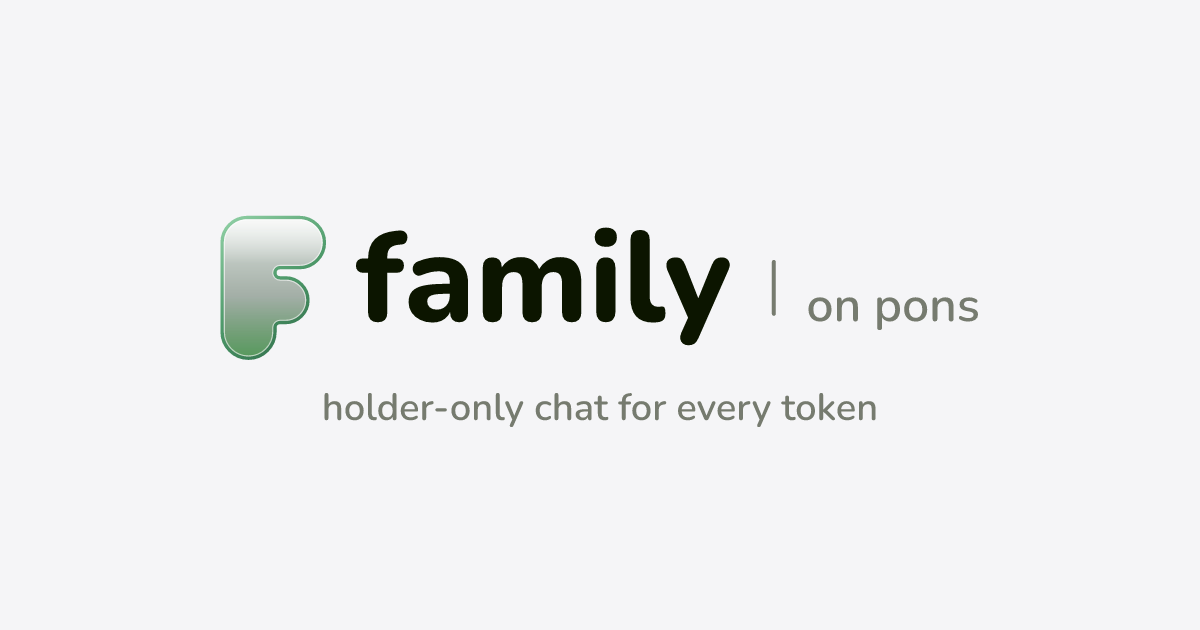
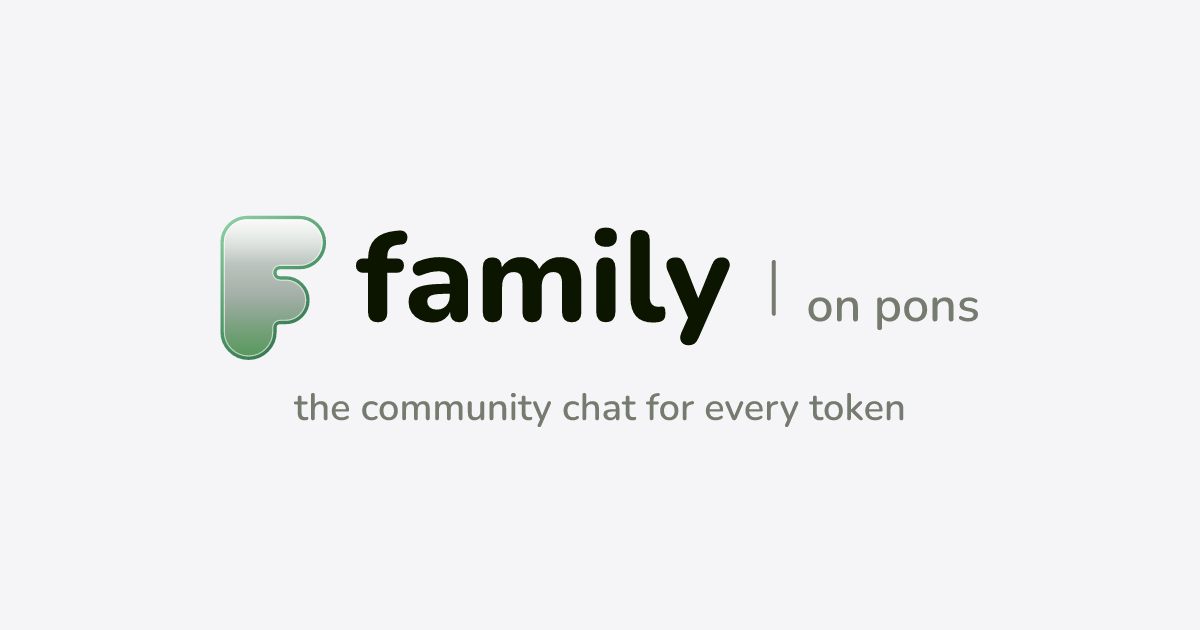
Reframe as a community chat
Lead with community and members instead of token holder chat across the
panel, manifest, landing page, X copy and images, and README. Gating by
holding is unchanged and still stated plainly. Bumps the alpha to 0.1.1
and repacks the download.

Changed region(s): [[0.2467, 0.6333, 0.7708, 0.6937]]

diff --git a/landing/index.html b/landing/index.html
@@ -4,7 +4,7 @@
   <meta charset="utf-8" />
   <meta name="viewport" content="width=device-width, initial-scale=1" />
   <title>family on pons</title>
-  <meta name="description" content="A holder-only chat room on every token page. If you hold the token, you are in the room." />
+  <meta name="description" content="A community chat on every token page. Hold the token to join the conversation." />
   <link rel="icon" type="image/svg+xml" href="assets/favicon.svg" />
   <link rel="icon" type="image/png" sizes="32x32" href="assets/favicon-32.png" />
   <!-- Link previews need absolute URLs. When the custom domain is live, replace every https://joinfamily.lol below. -->
@@ -12,13 +12,13 @@
   <meta property="og:type" content="website" />
   <meta property="og:url" content="https://joinfamily.lol/" />
   <meta property="og:title" content="family on pons" />
-  <meta property="og:description" content="A holder-only chat room on every token page." />
+  <meta property="og:description" content="A community chat on every token page." />
   <meta property="og:image" content="https://joinfamily.lol/assets/og-image.png" />
   <meta property="og:image:width" content="1200" />
   <meta property="og:image:height" content="630" />
   <meta name="twitter:card" content="summary_large_image" />
   <meta name="twitter:title" content="family on pons" />
-  <meta name="twitter:description" content="A holder-only chat room on every token page." />
+  <meta name="twitter:description" content="A community chat on every token page." />
   <meta name="twitter:image" content="https://joinfamily.lol/assets/og-image.png" />
   <meta name="color-scheme" content="light dark" />
   <script>
@@ -214,10 +214,10 @@
       <div class="hero">
         <div>
           <span class="eyebrow"><i></i>Alpha: Chrome extension for ponsfamily</span>
-          <h1>The token page, with a room for its holders.</h1>
-          <p class="lead">family adds a chat to every token page. If you hold the token, you are in the room. If you do not, you see a locked door and how many holders are already inside.</p>
+          <h1>Every token page, with a community chat.</h1>
+          <p class="lead">family adds a community chat to every token page. Hold the token and you are in. If you are not yet, you can see how many members are already talking.</p>
           <div class="cta">
-            <a class="btn primary" href="family-alpha.zip" download><svg viewBox="0 0 24 24" aria-hidden="true"><path d="M12 4v11M7.5 11 12 15.5 16.5 11M5 20h14"/></svg>Download alpha <em>v0.1.0</em></a>
+            <a class="btn primary" href="family-alpha.zip" download><svg viewBox="0 0 24 24" aria-hidden="true"><path d="M12 4v11M7.5 11 12 15.5 16.5 11M5 20h14"/></svg>Download alpha <em>v0.1.1</em></a>
             <a class="btn ghost" href="#install">How to install</a>
           </div>
         </div>
@@ -238,7 +238,7 @@
               <div class="bar">
                 <span class="chip"><b style="background:hsl(330 55% var(--name-l))"></b>MetaMask 0x29cb…7141</span>
                 <span class="badge">0.907% of supply</span>
-                <span class="m" style="font-size:12px">5 inside</span>
+                <span class="m" style="font-size:12px">5 members</span>
               </div>
               <div class="msgs">
                 <div class="msg"><div class="meta"><span class="who" style="color:hsl(150 55% var(--name-l))">0x2b3d…fb5e</span><span>2.1%</span><span class="time">02:37 PM</span></div>gm family, anyone watching the curve?</div>
@@ -255,14 +255,14 @@
 
 
     <section aria-labelledby="why-h">
-      <p class="kicker">Why a gated room</p>
-      <h2 id="why-h">Skin in the game filters most of the noise.</h2>
-      <p class="sub">Questions like whether the dev is still holding get asked in places anyone can shout in. Here, only holders can speak.</p>
+      <p class="kicker">Why it works</p>
+      <h2 id="why-h">A community that is actually in it.</h2>
+      <p class="sub">Questions like whether the dev is still holding get asked in places anyone can shout in. Here, everyone in the chat holds the same token you do.</p>
       <div class="feats">
-        <div class="feat"><div class="ic"><svg viewBox="0 0 24 24"><rect x="5" y="11" width="14" height="9" rx="3"/><path d="M8 11V8a4 4 0 0 1 8 0v3"/></svg></div><h3>Holders only</h3><p>The gate does most of the moderating. Everyone talking is exposed to the same token you are.</p></div>
+        <div class="feat"><div class="ic"><svg viewBox="0 0 24 24"><rect x="5" y="11" width="14" height="9" rx="3"/><path d="M8 11V8a4 4 0 0 1 8 0v3"/></svg></div><h3>Members with skin in the game</h3><p>Holding the token is the way in, which keeps the conversation about the token and out of the noise.</p></div>
         <div class="feat"><div class="ic"><svg viewBox="0 0 24 24"><path d="M4 12.5V5a1 1 0 0 1 1-1h7.5L20 11.5 12.5 19a1 1 0 0 1-1.4 0L4 12.5Z"/><circle cx="8.5" cy="8.5" r="1.2"/></svg></div><h3>The dev is always marked</h3><p>Devs get a green tag, even after selling, so you can see when they speak and how much they hold.</p></div>
-        <div class="feat"><div class="ic"><svg viewBox="0 0 24 24"><path d="M12 4a8 8 0 1 0 8 8h-8V4Z"/><path d="M15 3.3A8 8 0 0 1 20.7 9H15V3.3Z"/></svg></div><h3>Position on every message</h3><p>Each message shows the sender's share of supply, so a big holder and a tiny one never look the same.</p></div>
-        <div class="feat"><div class="ic"><svg viewBox="0 0 24 24"><circle cx="9" cy="9" r="3.2"/><path d="M3.5 19a5.5 5.5 0 0 1 11 0"/><path d="M16 6.2a3.2 3.2 0 0 1 0 5.6M18 19a5.5 5.5 0 0 0-2.6-4.7"/></svg></div><h3>A real holder count</h3><p>Locked rooms show how many holders are inside, with the bonding curve and burn address left out.</p></div>
+        <div class="feat"><div class="ic"><svg viewBox="0 0 24 24"><path d="M12 4a8 8 0 1 0 8 8h-8V4Z"/><path d="M15 3.3A8 8 0 0 1 20.7 9H15V3.3Z"/></svg></div><h3>Position on every message</h3><p>Each message shows the sender's share of supply, so a big position and a small one never look the same.</p></div>
+        <div class="feat"><div class="ic"><svg viewBox="0 0 24 24"><circle cx="9" cy="9" r="3.2"/><path d="M3.5 19a5.5 5.5 0 0 1 11 0"/><path d="M16 6.2a3.2 3.2 0 0 1 0 5.6M18 19a5.5 5.5 0 0 0-2.6-4.7"/></svg></div><h3>See who is in</h3><p>Before you join, you can see how many members are already talking. The bonding curve and burn address are never counted.</p></div>
         <div class="feat"><div class="ic"><svg viewBox="0 0 24 24"><circle cx="12" cy="12" r="4"/><path d="M12 3v2M12 19v2M3 12h2M19 12h2M5.6 5.6 7 7M17 17l1.4 1.4M5.6 18.4 7 17M17 7l1.4-1.4"/></svg></div><h3>Native on the page</h3><p>It follows the site's light and dark theme and tucks away into a single button when you want the page back.</p></div>
         <div class="feat"><div class="ic"><svg viewBox="0 0 24 24"><path d="M12 3.5 19 6v5.5c0 4.2-2.8 7.4-7 9-4.2-1.6-7-4.8-7-9V6l7-2.5Z"/><path d="m9 12 2.2 2.2L15.5 10"/></svg></div><h3>Independent and clear about it</h3><p>Community built and not affiliated with pons. Every panel says so, and it never asks you to sign anything.</p></div>
       </div>
@@ -275,12 +275,12 @@
       <div class="install">
         <ol class="steps">
           <li><div><h3>Download and unzip</h3><p>Unzip it somewhere permanent. Chrome runs the extension straight from that folder, so do not delete it afterwards.</p>
-            <a class="btn primary" href="family-alpha.zip" download><svg viewBox="0 0 24 24" aria-hidden="true"><path d="M12 4v11M7.5 11 12 15.5 16.5 11M5 20h14"/></svg>Download alpha <em>v0.1.0</em></a></div></li>
+            <a class="btn primary" href="family-alpha.zip" download><svg viewBox="0 0 24 24" aria-hidden="true"><path d="M12 4v11M7.5 11 12 15.5 16.5 11M5 20h14"/></svg>Download alpha <em>v0.1.1</em></a></div></li>
           <li><div><h3>Open the extensions page</h3><p>Paste this into a new tab. Links to it are blocked, so it has to be typed or copied.</p>
             <span class="code"><span id="ext-url">chrome://extensions</span><button type="button" id="copy">Copy</button></span></div></li>
           <li><div><h3>Turn on Developer mode</h3><p>The switch is in the top right corner of that page.</p></div></li>
           <li><div><h3>Load the folder</h3><p>Click <kbd>Load unpacked</kbd> and choose the folder you unzipped.</p></div></li>
-          <li><div><h3>Pin it and open a token</h3><p>Pin family from the puzzle icon, then open any token page on ponsfamily. The room appears bottom right.</p></div></li>
+          <li><div><h3>Pin it and open a token</h3><p>Pin family from the puzzle icon, then open any token page on ponsfamily. The community chat appears bottom right.</p></div></li>
         </ol>
 
         <aside class="notes" aria-label="Alpha notes">

diff --git a/src/shell/panel.ts b/src/shell/panel.ts
@@ -167,7 +167,7 @@ export function mountPanel(onSend: (text: string) => Promise<void>): Panel {
   const NOTICES: Record<string, string> = {
     slow_down: "Slow down a little.",
     too_long: "Too long, keep it under 280.",
-    not_holder: "You no longer hold this token.",
+    not_holder: "Hold this token to keep chatting.",
   };
   const setNotice = (text: string) => { const n = root.getElementById("n"); if (n) n.textContent = text; };
 
@@ -198,7 +198,7 @@ export function mountPanel(onSend: (text: string) => Promise<void>): Panel {
 
   const gate = (title: string, sub: string, extra = "") =>
     `<div class="gate"><div class="lock">${ICON.lock}</div><h3>${title}</h3><div class="m sm">${sub}</div>${extra}</div>`;
-  const stat = (n?: number) => (n == null ? "" : `<div class="stat"><span class="dot"></span><b>${n}</b> ${n === 1 ? "holder" : "holders"} inside</div>`);
+  const stat = (n?: number) => (n == null ? "" : `<div class="stat"><span class="dot"></span><b>${n}</b> ${n === 1 ? "member" : "members"}</div>`);
 
   return {
     setChatNotice: setNotice,
@@ -223,18 +223,18 @@ export function mountPanel(onSend: (text: string) => Promise<void>): Panel {
       const net = wrongNet ? `<div class="note">Switch your wallet to ${CHAIN.name} (chain ${CHAIN.id}).</div>` : "";
       switch (s.kind) {
         case "no-token":
-          body.innerHTML = `<div class="m">Open a token page on the launchpad to find its room.</div>`; break;
+          body.innerHTML = `<div class="m">Open a token page on the launchpad to find its community.</div>`; break;
         case "no-wallet":
-          body.innerHTML = gate("Holders only", "Connect your wallet on the site and we will check if you are in.", stat(s.holders)); break;
+          body.innerHTML = gate("Community chat", "Connect your wallet on the site and we will check if you are in.", stat(s.holders)); break;
         case "checking":
           body.innerHTML = `<div class="gate"><div class="skel" style="width:60%"></div><div class="skel" style="width:85%"></div><div class="m sm">Checking your balance</div></div>`; break;
         case "locked":
-          body.innerHTML = gate("Hold to join the family", `You do not hold this token yet. Buy some and the room opens up.`, stat(s.holders) + net); break;
+          body.innerHTML = gate("Join the community", `Hold this token to unlock the chat and talk with everyone in it.`, stat(s.holders) + net); break;
         case "error":
           body.innerHTML = gate("Something went wrong", esc(s.message)); break;
         case "holder": {
           const bar = `<div class="chip"><i style="background:hsl(${hue(s.wallet.address)} 55% var(--name-l))"></i>${esc(s.wallet.connectorName)} <code>${short(s.wallet.address)}</code></div>
-            ${s.isDev ? `<span class="devtag">dev</span>` : ""}<span class="badge">${fmtPct(s.holding.pct)} of supply</span>${s.holders != null ? `<span class="m sm">${s.holders} inside</span>` : ""}${net}`;
+            ${s.isDev ? `<span class="devtag">dev</span>` : ""}<span class="badge">${fmtPct(s.holding.pct)} of supply</span>${s.holders != null ? `<span class="m sm">${s.holders} ${s.holders === 1 ? "member" : "members"}</span>` : ""}${net}`;
           // Keep the chat DOM across re-renders so typing and scroll position survive the 30s recheck.
           if (root.getElementById("log")) { $("bar").innerHTML = bar; break; }
           body.innerHTML = `<div class="bar" id="bar">${bar}</div><div class="log" id="log"></div>

diff --git a/brand/x/COPY.md b/brand/x/COPY.md
@@ -16,14 +16,14 @@
 
 ### Bio (pick one, all under 160 characters)
 
-**A** (125)
-> Holder-only chat on every token page. Hold it, you're in the room. Alpha for pons. Community built, not affiliated with pons.
+**A** (137)
+> The community chat on every token page. Hold the token, join the conversation. Alpha for pons. Community built, not affiliated with pons.
 
-**B** (126)
-> Every token has a room. Only holders get in. A Chrome extension for pons, in alpha. Community built, not affiliated with pons.
+**B** (125)
+> Every token has a community. Join the chat. A Chrome extension for pons, in alpha. Community built, not affiliated with pons.
 
-**C** (119)
-> The room for people who actually hold. Open any token on pons and talk to its holders. Alpha. Not affiliated with pons.
+**C** (116)
+> Talk to the community behind every token. Open any token on pons and join the chat. Alpha. Not affiliated with pons.
 
 The "not affiliated with pons" line stays in whichever one you pick. The panel says the same thing, and it keeps nobody confusing family with the launchpad.
 
@@ -32,11 +32,11 @@ The "not affiliated with pons" line stays in whichever one you pick. The panel s
 Attach `post-1600x900.png` to the first one and pin it.
 
 ### 1. Pinned
-every token has a room now.
+every token has a community now.
 
-hold it and you're in. don't, and you see the door and how many holders are inside.
+open any token on pons and the chat is right there. hold it and you're in.
 
-family is live in alpha for pons: joinfamily.lol
+family is live in alpha: joinfamily.lol
 
 ### 2. Same day
 the dev always wears a green tag.
@@ -48,12 +48,12 @@ you always know who's talking.
 ### 3. Next day
 no sign up. no second wallet connect.
 
-open a token on pons and the room is already there.
+open a token on pons and the community chat is already there.
 
 ### 4. A day later
-sell and the door closes behind you.
+hold the token and you're in. sell it and the chat closes behind you.
 
-hold and it opens. that's the whole idea.
+that's the whole idea.
 
 ### 5. When people start installing
 it's alpha, so expect rough edges.
@@ -65,5 +65,6 @@ joinfamily.lol
 ## Notes
 
 - Lowercase and short matches how this crowd posts. Keep it that way.
+- The framing is "community": talk about the people in the chat, and mention holding only as the way in.
 - Nothing here claims pons endorses family. If they ever do, change the footer and the bio together.
-- Replies are where this grows: when someone posts a token, reply with what its room looks like.
+- Replies are where this grows: when someone posts a token, reply with what its community chat looks like.

diff --git a/README.md b/README.md
@@ -1,6 +1,6 @@
 # family on pons
 
-A Chrome extension that adds a holder-only chat room to every token page on the [ponsfamily](https://ponsfamily.com) launchpad. If you hold the token you are in the room. If you do not, you see that it is locked and how many holders are inside.
+A Chrome extension that adds a community chat to every token page on the [ponsfamily](https://ponsfamily.com) launchpad. Hold the token and you are in. If you are not yet, you see how many members are already talking.
 
 Independent community project, not affiliated with pons.
 
